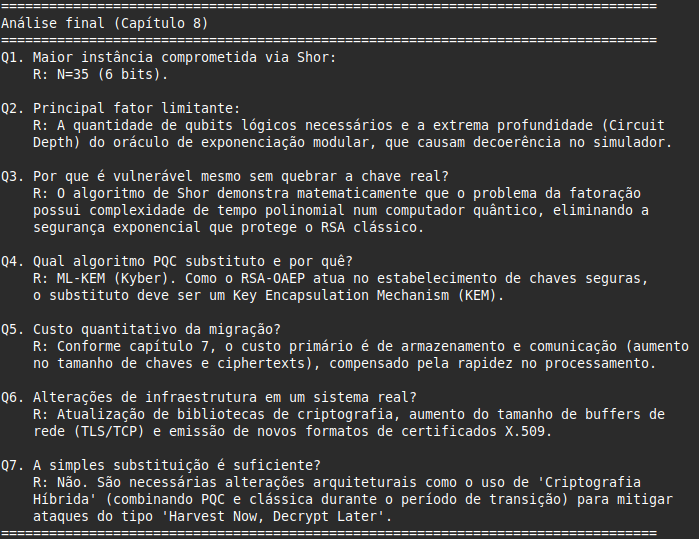
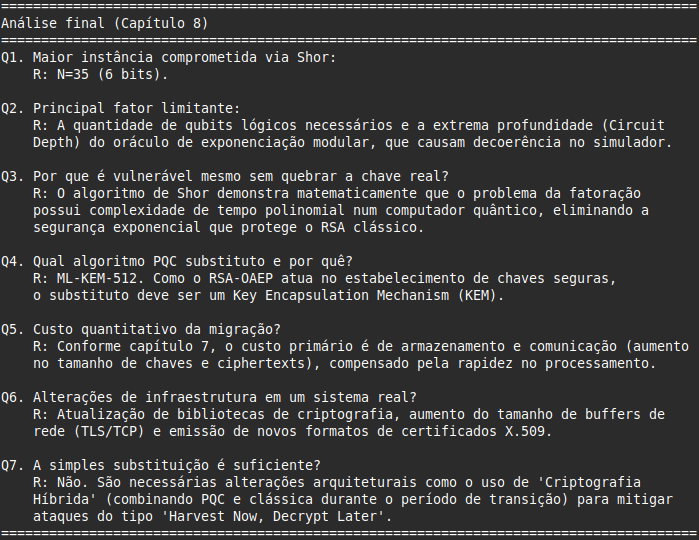
docs: atualiza README.md ajustando instalação via requirements.txt e atualiza nomenclaturas do PQC (Caps 5 a 7) para ML-KEM-512 incluso as imagens atualizadas dos resultados

diff --git a/README.md b/README.md
@@ -42,10 +42,10 @@ sudo apt install python3-venv python3-pip -y git -y
 python3 -m venv venv_shor
 ```
 
-**3. Instale as dependências essenciais do Qiskit 1.x:**
+**3. Instale as dependências via requirements.txt**
 
 ```bash
-pip install qiskit qiskit-aer matplotlib numpy pylatexenc
+pip install -r requirements.txt
 ```
 
 **3.1. Instale as dependências do "C" para o linux (Capítulo 5 e 5.1)**
@@ -53,12 +53,6 @@ pip install qiskit qiskit-aer matplotlib numpy pylatexenc
 ```bash
 sudo apt update
 sudo apt install build-essential cmake ninja-build libssl-dev -y
-```
-
-**3.2. Instale as dependências para extrair os tempos reais do RSA (Capítulo 6 e 6.2)**
-
-```bash
-pip install qiskit qiskit-aer matplotlib numpy pylatexenc liboqs-python cryptography
 ```
 
 **4. Ative o ambiente virtual:**
@@ -119,19 +113,15 @@ deactivate
 
 ![Criptografia PQC](https://img.shields.io/badge/Criptografia_PQC-⚛_🛡-darkblue?style=for-the-badge)
 
-Como o RSA-OAEP atua no estabelecimento e encapsulamento de chaves, a alternativa PQC implementada foi o **ML-KEM** (Kyber). O algoritmo obedece ao fluxo de geração de chaves (KeyGen), encapsulamento pelo remetente (Encaps) e desencapsulamento pelo destinatário (Decaps).
+Como o RSA-OAEP atua no estabelecimento e encapsulamento de chaves, a alternativa PQC implementada foi o **ML-KEM-512**. O algoritmo obedece ao fluxo de geração de chaves (KeyGen), encapsulamento pelo remetente (Encaps) e desencapsulamento pelo destinatário (Decaps).
 
-O desempenho isolado destas operações foi plotado graficamente para demonstrar o comportamento do Kyber512 em hardware atual:
+O desempenho isolado destas operações foi plotado graficamente para demonstrar o comportamento do ML-KEM-512 em hardware atual (calculado com base em 100 execuções para extração de médias precisas):
 
 ![Desempenho isolado ML-KEM](mlkem_desempenho_isolado.png)
 
 _(Nota: Na primeira execução, o processo pode demorar alguns segundos adicionais devido à compilação em "C" da biblioteca open-quantum-safe)._
 
 ![Compilacao1](PQC_5_1a.png)
-![Compilacao2](PQC_5_1b.png)
-![Compilacao3](PQC_5_1c.png)
-![Compilacaoe](PQC_5_1d.png)
-![Conclusao](PQC_5_1e.png)
 
 ## 📊 Resultados do experimento PQC (capítulo 6 até 6.2)
 
@@ -144,10 +134,6 @@ A comparação quantitativa demonstra as variações de armazenamento e latênci
 Para fins de análise acadêmica, os resultados também são consolidados visualmente. Observa-se que, enquanto o ML-KEM exige chaves maiores (impacto de armazenamento), ele é ordens de grandeza mais rápido na geração de chaves (KeyGen) do que o RSA (impacto positivo no processamento):
 
 ![Comparativo Gráfico PQC](pqc_mlkem_comparativo.png)
-
-## 💡 Insights de impacto (Capítulo 7)
-
-![Insights](InsightsCapitulo7.png)
 
 ## 🚀 Avaliação e análise final (Capítulos 7 e 8)
 
@@ -168,7 +154,7 @@ Para um volume de **1 milhão de operações/dia**:
 ![Analíse final](AnálisefinalCápitulo8.png)
 
 - **O Limite Quântico:** O experimento demonstrou a quebra da instância de $N=35$ (6 bits). O principal limitante para escalar para o RSA-2048 é a barreira física de qubits limpos (coerência) e a profundidade dos _gates_ (Circuit Depth).
-- **Adequação do ML-KEM:** Sendo o RSA-OAEP um algoritmo de transporte/encapsulamento de chaves, o ML-KEM provou ser a alternativa algorítmica exata em funcionalidade.
+- **Adequação do ML-KEM:** Sendo o RSA-OAEP um algoritmo de transporte/encapsulamento de chaves, o ML-KEM-512 provou ser a alternativa algorítmica exata em funcionalidade.
 - **Mudança Arquitetural:** O projeto conclui que uma simples troca de algoritmos não é suficiente. Devido a ameaças como _Harvest Now, Decrypt Later_, arquiteturas modernas exigem **Criptografia Híbrida** temporária, ajuste nos _buffers_ de rede TLS para _payloads_ maiores e novos formatos de certificados X.509.
 
 ## 🔧 Resolução de problemas comuns (Troubleshooting)
